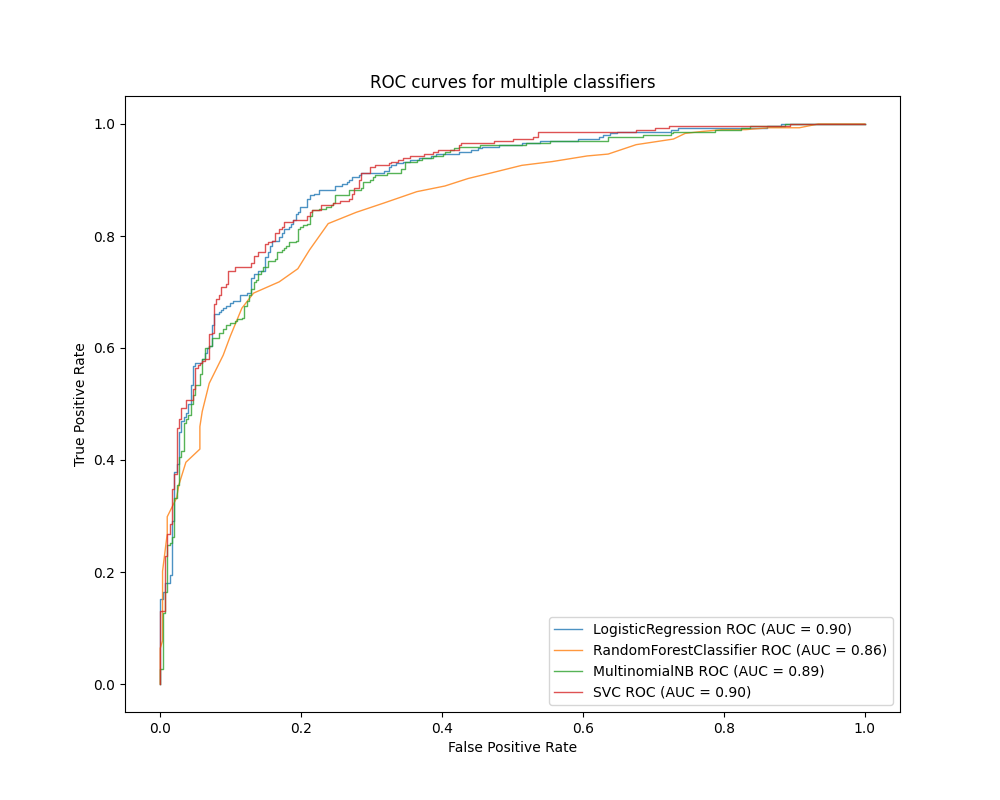
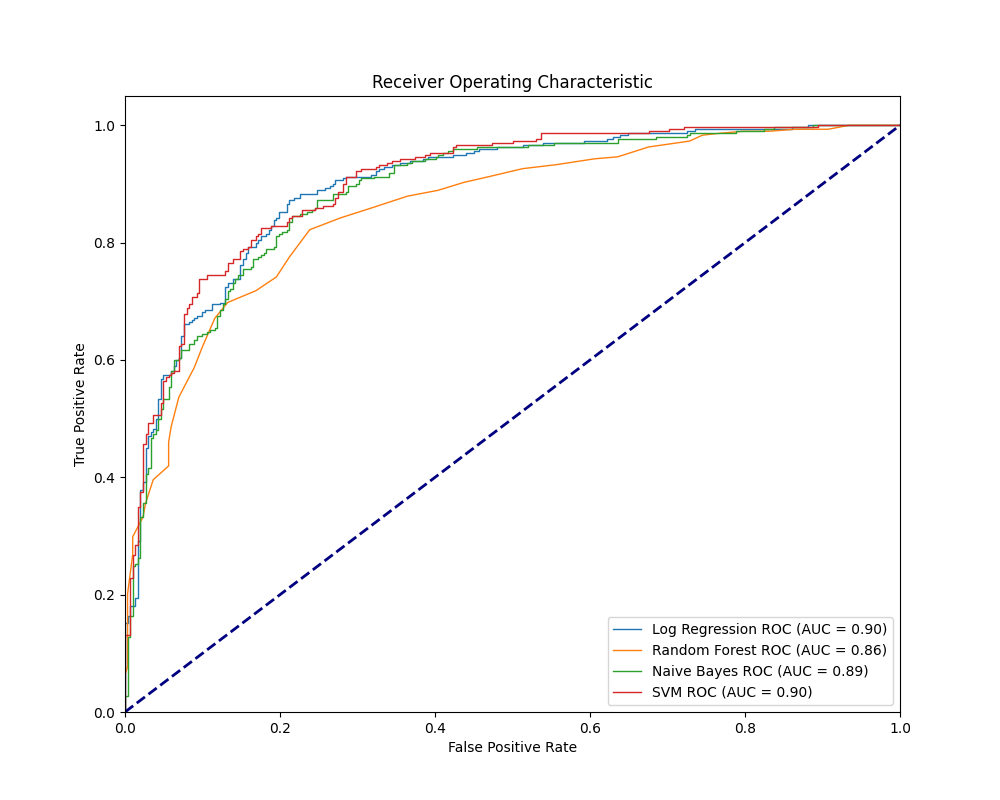
added confusion matrix

diff --git a/rev.py b/rev.py
@@ -1,0 +1,119 @@
+import os
+# Set NLTK_DATA environment variable
+os.environ['NLTK_DATA'] = '/Users/rishabhsolanki/Desktop/Machine learning/'
+
+import re
+import matplotlib.pyplot as plt
+import pandas as pd
+from string import punctuation
+from nltk.corpus import stopwords
+from nltk import word_tokenize
+from nltk.stem.porter import PorterStemmer
+from sklearn.feature_extraction.text import TfidfVectorizer
+from sklearn import linear_model
+from sklearn import preprocessing
+from sklearn.metrics import roc_curve, auc, roc_auc_score, confusion_matrix
+from sklearn.model_selection import train_test_split
+from sklearn.linear_model import LogisticRegression
+from sklearn.svm import SVC
+from sklearn.ensemble import RandomForestClassifier
+from sklearn.naive_bayes import MultinomialNB
+import seaborn as sns
+import nltk
+from nltk.corpus import movie_reviews as reviews
+
+
+
+# Load the reviews and labels
+X = [reviews.raw(fileid) for fileid in reviews.fileids()]
+y = [reviews.categories(fileid)[0] for fileid in reviews.fileids()]
+
+# Split the dataset into training and test sets
+X_train, X_test, y_train, y_test = train_test_split(X, y, test_size=0.30, random_state=42)
+
+# Define the tokenizer function
+cachedStopwords = stopwords.words('english')
+def tokenize(text):
+    min_length = 3
+    words = map(lambda word: word.lower(), word_tokenize(text))
+    words = [w for w in words if w not in cachedStopwords]
+    tokens = (list(map(lambda token:PorterStemmer().stem(token),words)))
+    p = re.compile('[a-zA-Z]+')
+    filtered_tokens = list(filter(lambda token: p.match(token) and len(token) >= min_length, tokens))
+    return filtered_tokens
+
+# Define the TF-IDF representation function
+def represent(X_train,X_test):
+    vectorizer = TfidfVectorizer(tokenizer=tokenize)
+    vectorized_train_documents = vectorizer.fit_transform(X_train)
+    vectorized_test_documents = vectorizer.transform(X_test)
+    return (vectorized_train_documents,vectorized_test_documents)
+
+# Vectorize the reviews
+train_docs, test_docs = represent(X_train,X_test)
+
+# Convert labels from string to binary
+label_encoder = preprocessing.LabelEncoder()
+label_encoder.fit(y_train)
+train_labels = label_encoder.transform(y_train)
+label_encoder.fit(y_test)
+test_labels = label_encoder.transform(y_test)
+
+# Prepare models
+seed = 10
+models = []
+models.append(('Log Regression', LogisticRegression(random_state=seed)))
+models.append(('Random Forest', RandomForestClassifier(random_state=seed)))
+models.append(('Naive Bayes', MultinomialNB()))
+models.append(('SVM', SVC(kernel='linear',random_state=seed,probability=True)))
+
+classifiers = []
+classifiers_names = []
+
+plt.figure(figsize=(10, 8))
+
+for name, model in models:
+    clf = model
+    clf.fit(train_docs, train_labels)
+    classifiers.append(clf)
+    classifiers_names.append(name)
+
+    predictions = clf.predict(test_docs)
+    predictions_prob = clf.predict_proba(test_docs)
+    
+    # ROC curve
+    fpr, tpr, thresholds = roc_curve(test_labels, predictions_prob[:,1])
+    roc_auc = auc(fpr, tpr)
+    plt.plot(fpr, tpr, lw=1, label='%s ROC (AUC = %0.2f)' % (name, roc_auc))
+    
+    # Confusion Matrix
+    matrix = confusion_matrix(test_labels, predictions)
+    print("\nConfusion matrix for ", name, ": ")
+    print(matrix)
+
+plt.plot([0, 1], [0, 1], color='navy', lw=2, linestyle='--')
+plt.xlim([0.0, 1.0])
+plt.ylim([0.0, 1.05])
+plt.xlabel('False Positive Rate')
+plt.ylabel('True Positive Rate')
+plt.title('Receiver Operating Characteristic')
+plt.legend(loc="lower right")
+plt.savefig('roc.png')
+
+
+def plot_confusion_matrices(classifiers, classifier_names, X_test, y_test):
+    fig, axes = plt.subplots(nrows=2, ncols=2, figsize=(12, 10))  # Adjust the figure size
+    sns.set(font_scale=0.9)  # Adjust the font size
+    axes = axes.flatten()
+    for cls, name, ax in zip(classifiers, classifier_names, axes):
+        cm = confusion_matrix(y_test, cls.predict(X_test))
+        sns.heatmap(cm, annot=True, fmt="d", ax=ax, cmap='Blues', cbar=False)
+        ax.set_title(f'Confusion Matrix: {name}')
+        ax.set_xlabel('Predicted Label')
+        ax.set_ylabel('True Label')
+    plt.tight_layout(pad=5.0)
+    plt.savefig('cfmtx.png')
+
+plot_confusion_matrices(classifiers, classifiers_names, test_docs, test_labels)
+
+
